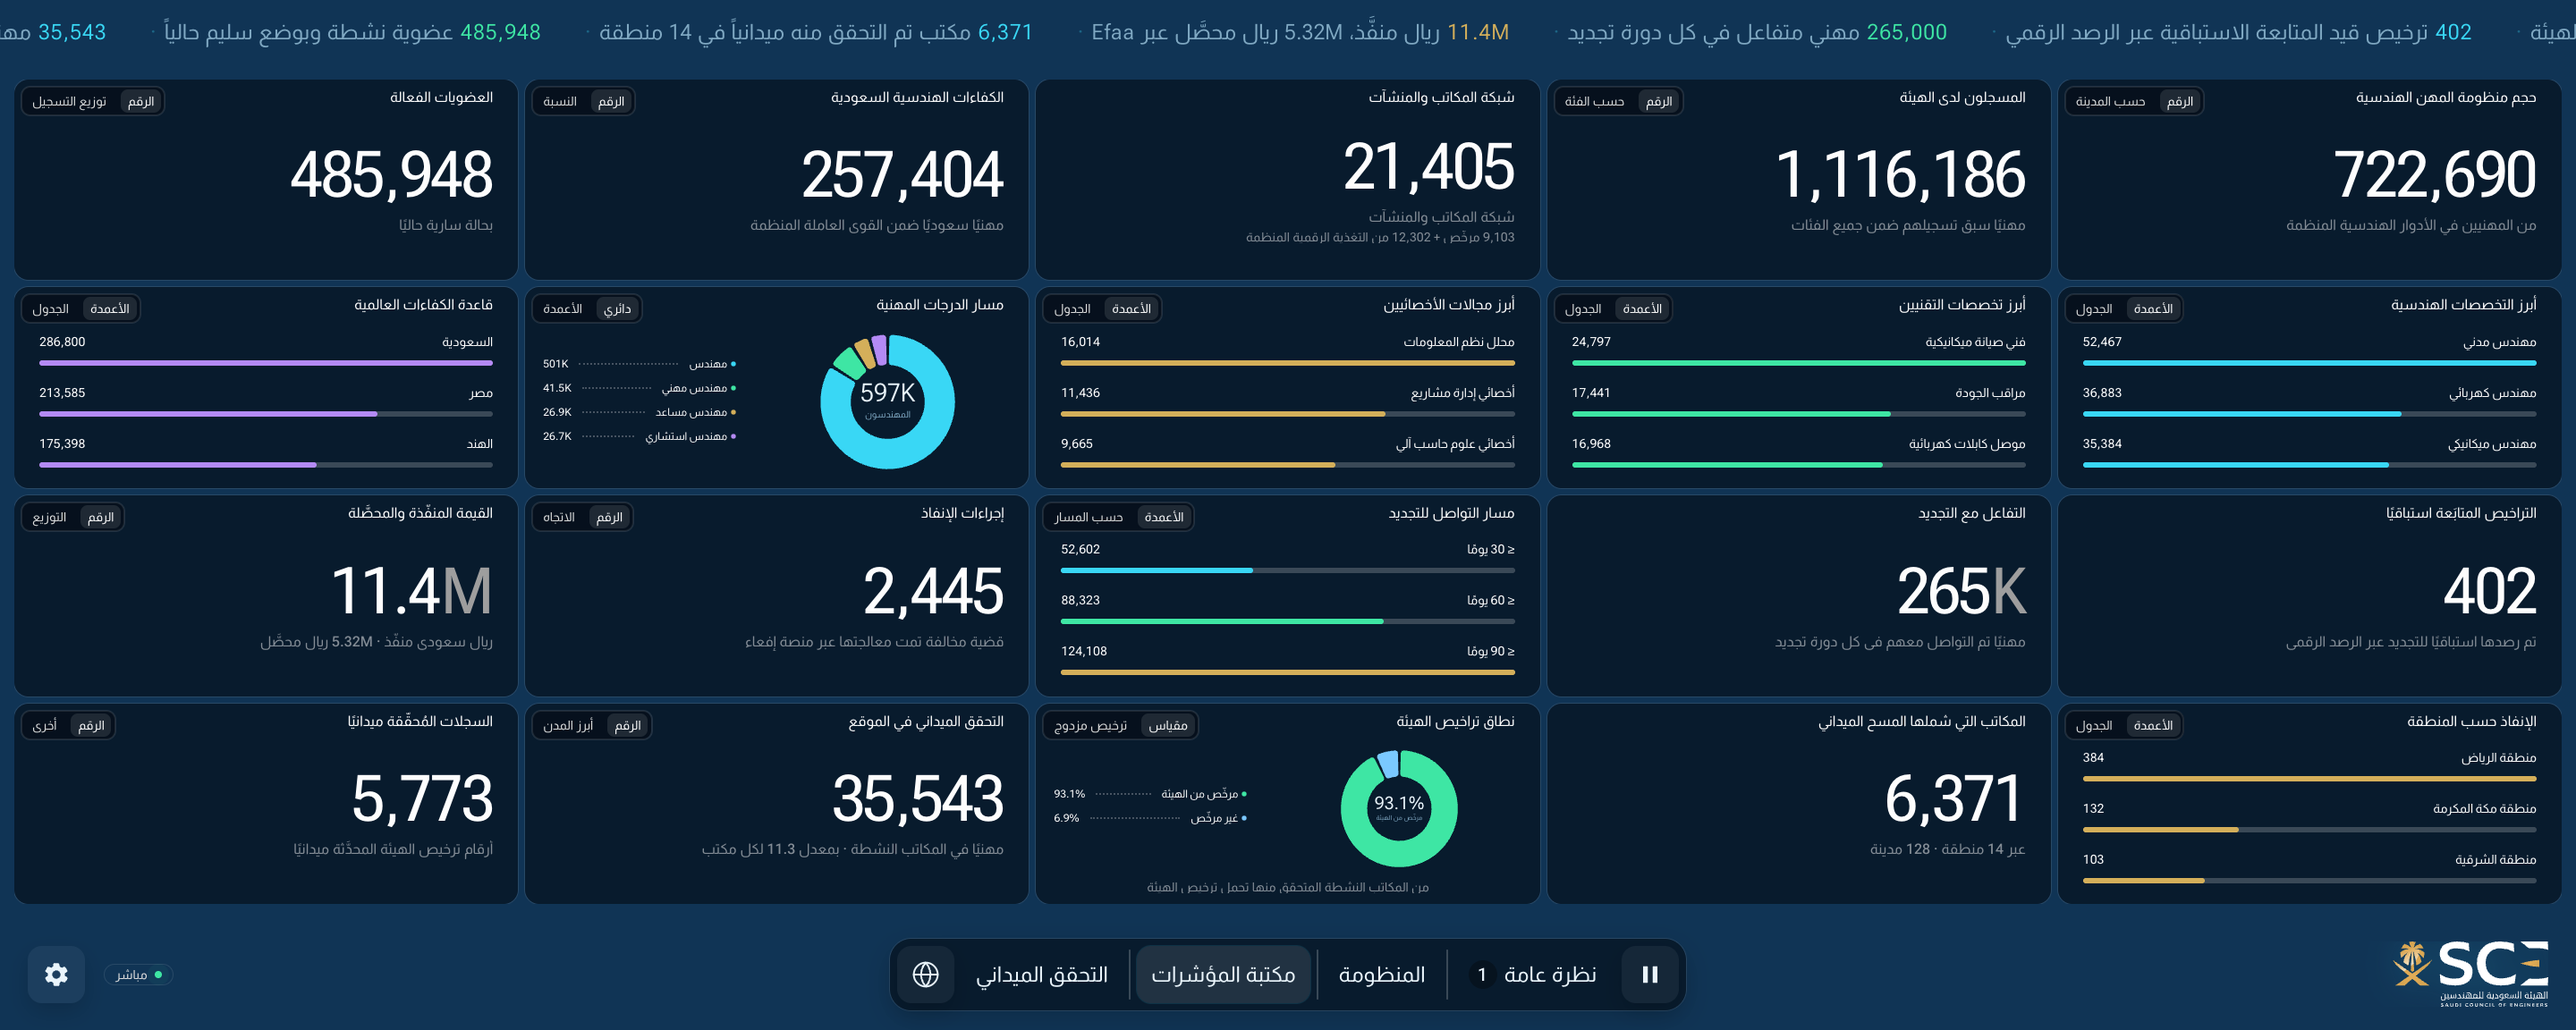
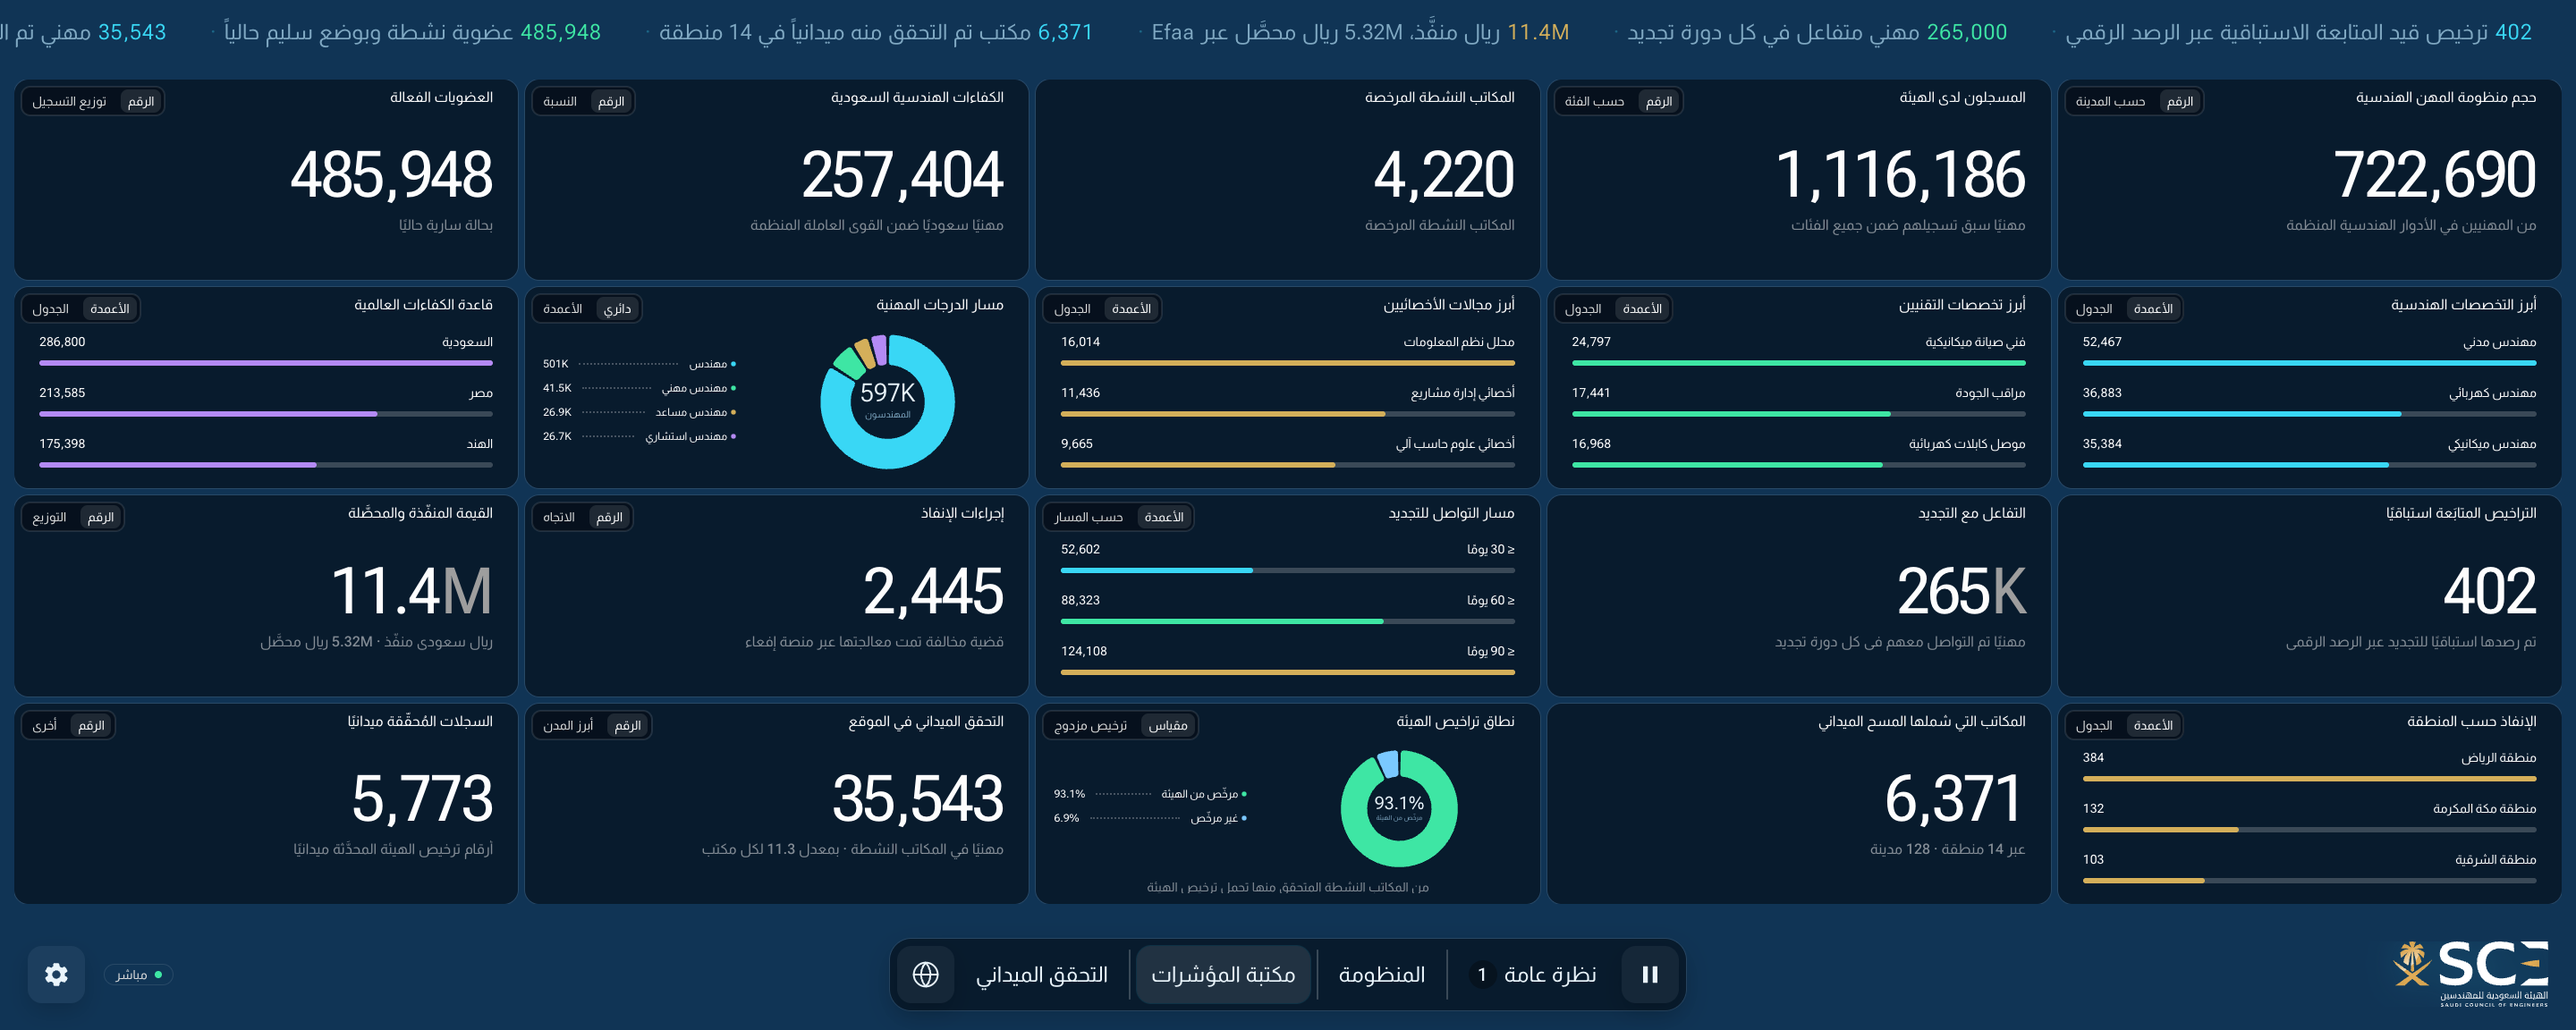
Active memberships and 4,220 licensed offices on the ecosystem panel
SCE's 2026-08-30 review, three changes to the National ecosystem panel —
which is one widget shown on two boards, so both move together.

Totals leads with active memberships (485,948) in place of the 1,116,186 ever
registered, and the offices tile is now 4,220 active licensed offices instead
of the 21,405-strong offices-and-firms network. Register keeps the three that
are left: in the renewal window, expired, frozen. Three tiles, so cols
follows them to 3 — a fourth cell left empty is the one thing this wall does
not do, and bs-mon beside it is already laid out that way.

4,220 is stated by SCE and the dataset cannot account for it. Every other
figure in the app is derived from leap_data.js and reconciled against it on
load, so this one is named once, as Data.activeOffices in derive.js, with its
provenance in the comment, and whitelisted by hand in audit-data.mjs with the
same note. A number the data does not back should be impossible to miss in
the source, not scattered through three board files.

The Arabic is SCE's own: "المكاتب النشطة المرخصة" is how their translators
render active-and-licensed offices in i18n-source (GLOSSARY.md, the
city-coverage legend). One caveat for whoever reads it — the ticker's other
items take an indefinite singular after the numeral, and this is a definite
plural. It reads, but it is not idiomatic there; changing it is a question
for SCE's translators, not for us.
[…]

diff --git a/app/assets/js/core/i18n.js b/app/assets/js/core/i18n.js
@@ -141,6 +141,10 @@
     'm.eco': ['Professionals in regulated roles', 'المهنيون في الأدوار المنظمة'],
     'm.reg': ['Registered with SCE', 'المسجلون لدى الهيئة'],
     'm.offices': ['Offices & firms network', 'شبكة المكاتب والمنشآت'],
+    /* Arabic is SCE's own, not ours: "المكاتب النشطة المرخصة" is how their
+       translators render "active offices ... licensed" in i18n-source (see
+       GLOSSARY.md, the city-coverage legend). */
+    'm.activeoffices': ['Active licensed offices', 'المكاتب النشطة المرخصة'],
     'm.saudis': ['Saudi engineering talent', 'الكفاءات الهندسية السعودية'],
     'm.nonsaudi': ['Global talent', 'الكفاءات العالمية'],
     /* Gender labels are WeDo's own, from ADD_GENDER_KPIS_AR.md — the same
@@ -314,6 +318,7 @@
     'k.ecosize': ['Engineering ecosystem size', 'حجم منظومة المهن الهندسية'],
     'k.registered': ['Registered with SCE', 'المسجلون لدى الهيئة'],
     'k.offices': ['Offices & firms network', 'شبكة المكاتب والمنشآت'],
+    'k.activeoffices': ['Active licensed offices', 'المكاتب النشطة المرخصة'],
     'k.saudis': ['Saudi engineering talent', 'الكفاءات الهندسية السعودية'],
     'k.activemem': ['Active memberships', 'العضويات الفعالة'],
     'k.engspec': ['Top engineering specialties', 'أبرز التخصصات الهندسية'],
@@ -382,6 +387,7 @@
     't.eco': ['professionals in the national engineering ecosystem', 'مهني في المنظومة الهندسية الوطنية'],
     't.reg': ['professionals registered with SCE', 'مهني مسجل لدى الهيئة'],
     't.offices': ['engineering offices and firms in the network', 'مكتب وشركة هندسية في الشبكة'],
+    't.activeoffices': ['active licensed offices', 'المكاتب النشطة المرخصة'],
     't.scecov': ['of field-verified active offices hold an SCE licence', 'من المكاتب النشطة المتحقق منها ميدانياً تحمل ترخيص الهيئة'],
     't.proact': ['licences tracked proactively by digital monitoring', 'ترخيص قيد المتابعة الاستباقية عبر الرصد الرقمي'],
     't.engage': ['professionals engaged each renewal cycle', 'مهني متفاعل في كل دورة تجديد'],

diff --git a/app/assets/js/boards/ecosystem.js b/app/assets/js/boards/ecosystem.js
@@ -30,16 +30,13 @@
               cols: 2,
               items: [
                 { value: Data.head.eco, format: 'grouped', label: t('m.eco') },
-                { value: Data.head.reg, format: 'grouped', label: t('m.reg') },
-                {
-                  value: Data.offices,
-                  format: 'grouped',
-                  label: t('m.offices'),
-                  note: t('n.offnote', {
-                    a: Fmt.grouped(Data.officesParts[0]),
-                    b: Fmt.grouped(Data.officesParts[1]),
-                  }),
-                },
+                /* See bs-eco: active memberships lead, and the offices tile
+                   is the 4,220 SCE states rather than the 21,405 network.
+                   n.offnote went with it — "9,103 licensed + 12,302
+                   structured feed" adds up to the number that is no longer
+                   on the tile. */
+                { value: Data.register.active, format: 'grouped', label: t('m.active') },
+                { value: Data.activeOffices, format: 'grouped', label: t('m.activeoffices') },
                 { value: Data.head.saudis, format: 'grouped', label: t('m.saudis') },
               ],
             });
@@ -47,9 +44,8 @@
           function (el) {
             Chart.mount(el, {
               chart: 'indicator',
-              cols: 2,
+              cols: 3,
               items: [
-                { value: Data.register.active, format: 'grouped', label: t('m.active') },
                 { value: Data.register.near, format: 'grouped', label: t('m.near') },
                 { value: Data.register.expired, format: 'grouped', label: t('m.expired') },
                 { value: Data.register.frozen, format: 'grouped', label: t('m.frozen') },

diff --git a/app/assets/js/boards/bigscreen.js b/app/assets/js/boards/bigscreen.js
@@ -62,18 +62,23 @@
             cols: 2,
             items: [
               { value: Data.head.eco, format: 'compact', label: t('m.eco') },
-              { value: Data.head.reg, format: 'compact', label: t('m.reg') },
-              { value: Data.offices, format: 'compact', label: t('m.offices') },
+              /* Active memberships, not the 1.12M ever registered, and the
+                 4,220 active licensed offices rather than the 21,405-strong
+                 network (client review, 2026-08-30). */
+              { value: Data.register.active, format: 'compact', label: t('m.active') },
+              { value: Data.activeOffices, format: 'compact', label: t('m.activeoffices') },
               { value: Data.head.saudis, format: 'compact', label: t('m.saudis') },
             ],
           });
         },
+        /* Three now that active memberships lead the Totals tab, so cols
+           follows: a fourth cell left empty is the one thing this wall does
+           not do. Same shape as bs-mon. */
         function (el) {
           Chart.mount(el, {
             chart: 'indicator',
-            cols: 2,
+            cols: 3,
             items: [
-              { value: Data.register.active, format: 'compact', label: t('m.active') },
               { value: Data.register.near, format: 'compact', label: t('m.near') },
               { value: Data.register.expired, format: 'compact', label: t('m.expired') },
               { value: Data.register.frozen, format: 'compact', label: t('m.frozen') },

diff --git a/app/assets/js/boards/library.js b/app/assets/js/boards/library.js
@@ -220,7 +220,10 @@
         ],
       },
       {
-        id: 'k-offices', cat: 'eco', titleKey: 'k.offices',
+        /* The 4,220 SCE stated in the 2026-08-30 review, not the 21,405
+           network the pack ships. n.offnote went with it: its two components
+           add up to the number that is no longer here. */
+        id: 'k-offices', cat: 'eco', titleKey: 'k.activeoffices',
         chipKeys: ['c.number'],
         views: [
           function (el) {
@@ -229,13 +232,9 @@
               cols: 1,
               items: [
                 {
-                  value: Data.offices,
+                  value: Data.activeOffices,
                   format: 'grouped',
-                  label: t('m.offices'),
-                  note: t('n.offnote', {
-                    a: Fmt.grouped(Data.officesParts[0]),
-                    b: Fmt.grouped(Data.officesParts[1]),
-                  }),
+                  label: t('m.activeoffices'),
                 },
               ],
             });

diff --git a/app/assets/js/data/derive.js b/app/assets/js/data/derive.js
@@ -121,6 +121,15 @@
       }),
 
     /* --- Ecosystem --- */
+    /* Stated by SCE, not derived. Every other figure in this file comes out
+       of leap_data.js and reconciles against it; this one was handed to us
+       directly (client review, 2026-08-30) to replace the 21,405 offices-and-
+       firms network on the ecosystem panel, and the dataset cannot account
+       for it. It is named here rather than written into a board so that the
+       one number on the wall the data does not back is impossible to miss,
+       and so audit-data.mjs has a single place to whitelist. */
+    activeOffices: 4220,
+
     nonSaudi: eco - saudis,
     saudiShare: (saudis / eco) * 100,
 

diff --git a/app/assets/js/core/shell.js b/app/assets/js/core/shell.js
@@ -844,7 +844,7 @@
     var facts = [
       ['b', Fmt.grouped(Data.head.eco), I18N.t('t.eco')],
       ['g', Fmt.grouped(Data.head.reg), I18N.t('t.reg')],
-      ['b', Data.head.offices, I18N.t('t.offices')],
+      ['b', Fmt.grouped(Data.activeOffices), I18N.t('t.activeoffices')],
       ['g', Fmt.pct(Data.tuv.scecov), I18N.t('t.scecov')],
       ['b', Fmt.grouped(Data.head.proact), I18N.t('t.proact')],
       ['g', Fmt.grouped(Data.head.renewengage), I18N.t('t.engage')],
